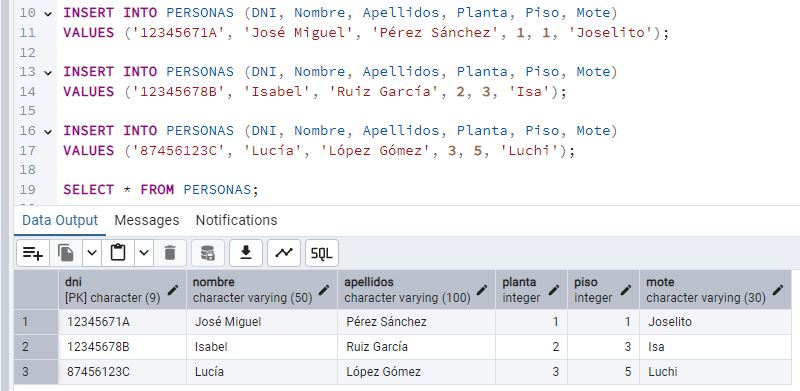
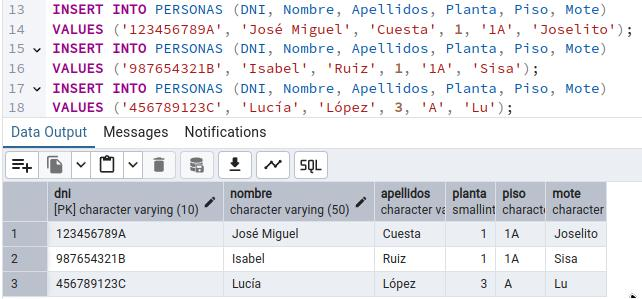
first push home_01

diff --git a/base_datos/bases_datos_01.html b/base_datos/bases_datos_01.html
@@ -200,7 +200,7 @@
   <div id="respuesta_03" class="respuesta">
     <h3>3 - ¿Cómo se representaría textualmente, siguiendo el modelo R(A1, A2,..)?</h3>
     <p>
-      Representación textual <strong>PERSONAS</strong>,donde la clave primaria se subraya::
+      Representación textual <strong>PERSONAS</strong>,donde la clave primaria se subraya:
     </p>
     <em>PERSONAS(<u>DNI</u>, Nombre, Apellidos, Planta, Piso, Mote)</em>
 
@@ -209,46 +209,35 @@
   <div id="respuesta_04" class="respuesta">
     <h3>4 - ¿Qué tipo de dato es cada atributo? Justifica tus elecciones.</h3>
     <p>
-      <strong>DNI:</strong> Utilizaremos <code>CHAR(9)</code> porque el formato del DNI es siempre el mismo (8
-      dígitos y una letra).
+      <strong>DNI:</strong> Utilizaremos <strong><code>VARCHAR(10)</code></strong> permite almacenar DNIs (9 caracteres) y NIEs (hasta 10 caracteres).
     </p>
 
     <p>
-      <strong>Nombre:</strong> Se utiliza <code>VARCHAR(50)</code> porque es una cadena de caracteres variable y,
+      <strong>Nombre:</strong> Se utiliza <strong><code>VARCHAR(50)</code></strong>porque es una cadena de caracteres variable y,
       generalmente, los nombres no exceden esta longitud.
     </p>
     <p>
-      <strong>Apellidos:</strong> Se define como <code>VARCHAR(100)</code> para permitir almacenar apellidos compuestos
+      <strong>Apellidos:</strong> Se define como <strong><code>VARCHAR(100)</code></strong> para permitir almacenar apellidos compuestos
       o de mayor longitud, garantizando suficiente espacio.
     </p>
     <p>
-      <strong>Planta:</strong> Se utiliza <code>INTEGER</code> ya que representa el número del piso en el edificio. (Si
-      se considerase la posibilidad de plantas no numéricas, se podría optar por un tipo de cadena, pero en este
-      ejercicio se asume numérico).
+      <strong>Planta:</strong> Se utiliza <code><strong>SMALLINT o TINYINT</strong> (para Microsoft SQL server)</code>permite hasta 32.767 plantas.</p> <p>No admite nulls. 
+      Si pudiera <strong><code>TINYINT</code></strong> la ventaja es que ocupa 1 byte en lugar de 2 <strong><code>(SMALLINT)</code></strong> o 4 <strong><code>(INT)</code></strong>, optimizando almacenamiento.</p> <p>Sería suficiente para edificios de hasta 127 plantas.
     </p>
     <p>
-      <strong>Piso:</strong> Se define también como <code>INTEGER</code>, pues identifica el número de la puerta o
-      apartamento en dicho piso.
+      <strong>Piso:</strong> <strong><code>VARCHAR(4)</code></strong>, Puede contener números y letras (Ej: “3A”, “10B”).
+    <strong><code>VARCHAR(4)</code></strong> es más flexible que <strong><code>TINYINT</code></strong> o <strong><code>SMALLINT</code></strong>.
     </p>
     <p>
-      <strong>Mote:</strong> Se utiliza <code>VARCHAR(30)</code> al ser un apodo, que normalmente es una cadena corta y
-      de longitud variable.
+      <strong>Mote:</strong> Se utiliza <strong><code>VARCHAR(50)</code></strong> permite nombres largos sin desperdiciar demasiado espacio.
+      Se permite NULL, ya que no todos los vecinos tienen mote.
     </p>
   </div>
 
 
   <div id="respuesta_05" class="respuesta">
     <h3>5 - Haz una sentencia SQL para crear la tabla en PostgreSQL.</h3>
-    <pre>
-    CREATE TABLE PERSONAS (
-      DNI CHAR(9) PRIMARY KEY,
-      Nombre VARCHAR(50) NOT NULL,
-      Apellidos VARCHAR(100) NOT NULL,
-      Planta INTEGER NOT NULL,
-      Piso INTEGER NOT NULL,
-      Mote VARCHAR(30)
-  );
-    </pre>
+    <img src="img/ask_05.jpg" alt="Insert personas">
   </div>
 
   <div id="respuesta_06" class="respuesta">
@@ -274,7 +263,7 @@
       Se pueden agregar las columnas <code>Ocupacion</code> y <code>Sexo</code> a la tabla <strong>PERSONAS</strong>
       utilizando las siguientes sentencias SQL:
     </p>
-    <img src="img/ask_09.jpg" alt="ALTER TABLE ">
+    <img src="img/ask_08.jpg" alt="ALTER TABLE ">
   </div>
   
 
